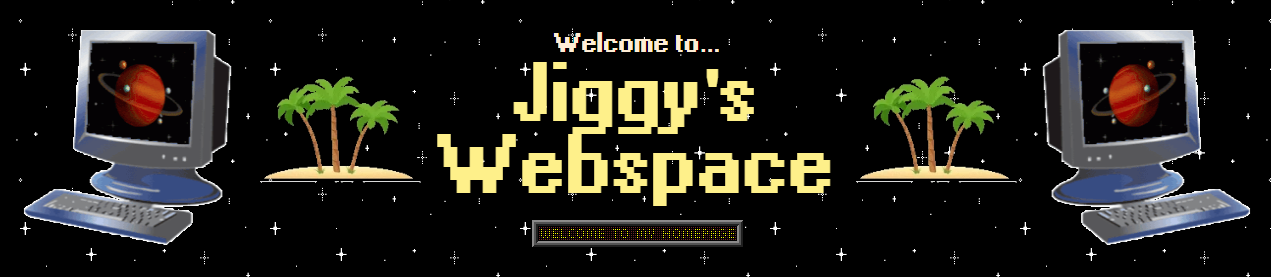
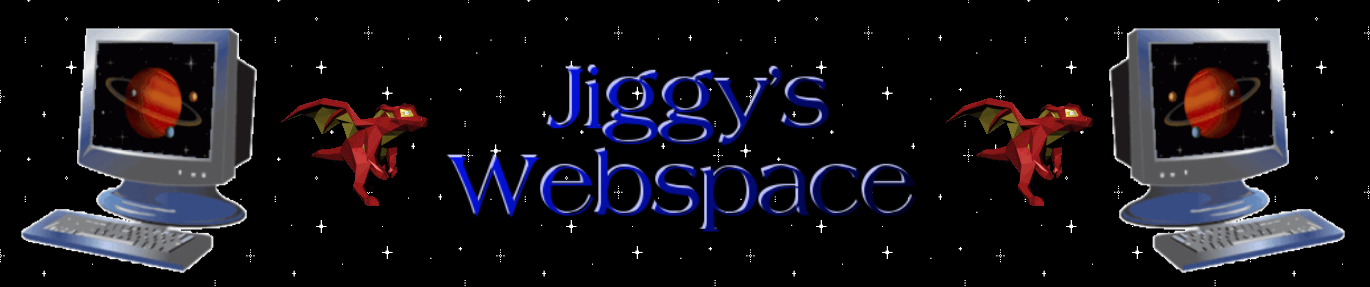
content/style: edit

diff --git a/index.html b/index.html
@@ -17,6 +17,11 @@
           class="w-[250px] h-[250px] md:hidden lg:h-[160px] lg:w-[160px]"
           aria-hidden="true"
         />
+        <img
+          src="/src/assets/images/common/dragon.gif"
+          class="2xl:hidden"
+          aria-hidden="true"
+        />
         <h1>
           <img
             src="/src/assets/images/common/header.png"
@@ -26,6 +31,11 @@
           />
         </h1>
         <img
+          src="/src/assets/images/common/dragon.gif"
+          class="2xl:hidden"
+          aria-hidden="true"
+        />
+        <img
           src="/src/assets/images/common/planets-right.gif"
           class="w-[250px] h-[250px] md:hidden lg:h-[160px] lg:w-[160px]"
           aria-hidden="true"
@@ -33,7 +43,7 @@
       </div>
       <div class="flex flex-col items-center text-center">
         <p class="text-3xl text-blue-100 font-bold">
-          Hello world, Welcome to my webpage!
+          Hello world, Welcome to my website!
         </p>
         <div class="flex items-center justify-center">
           <!-- <img
@@ -67,7 +77,7 @@
           aria-label="Site"
         >
           <div
-            class="text-center font-times flex gap-2 items-center justify-center border border-gray-700 bg-blue-900 w-full"
+            class="text-center font-times flex gap-2 items-center justify-center border border-neutral-700 bg-blue-900 w-full"
           >
             <h2 class="text-2xl font-bold">&#9733; Pages &#9733;</h2>
           </div>
@@ -147,7 +157,7 @@
             </a>
           </div>
           <div
-            class="text-center font-times flex gap-2 items-center justify-center border border-gray-700 bg-blue-900 w-full"
+            class="text-center font-times flex gap-2 items-center justify-center border border-neutral-700 bg-blue-900 w-full"
           >
             <h2 class="text-2xl font-bold">&#9733; Cool Stuff &#9733;</h2>
           </div>
@@ -241,7 +251,7 @@
           aria-label="Page"
         >
           <div
-            class="flex gap-1 m-[2px] border-gray-700 border w-full px-8 items-center justify-center flex-wrap"
+            class="flex gap-1 m-[2px] border-neutral-700 border w-full px-8 items-center justify-center flex-wrap"
           >
             <a href="#welcome">Welcome</a>| <a href="#music">music</a>|
             <a href="#interests">Interests</a>|
@@ -680,7 +690,7 @@
           aria-labelledby="webrings-heading"
         >
           <div
-            class="w-full flex items-center justify-center border border-gray-500 bg-blue-900"
+            class="w-full flex items-center justify-center border border-neutral-500 bg-blue-900"
           >
             <h2 class="text-2xl font-bold max-w-fit" id="webrings-heading">
               &#9733; Webrings &#9733;
@@ -689,7 +699,7 @@
           <ul>
             <li>
               <div
-                class="flex justify-center items-center border border-gray-500 bg-marble p-1"
+                class="flex justify-center items-center border border-neutral-500 bg-marble p-1"
               >
                 <a
                   href="https://webring.dinhe.net/prev/nicoll-douglas.github.io"
@@ -722,7 +732,7 @@
         >
           <div class="overflow-y-auto max-h-full">
             <div
-              class="flex items-center justify-center m-[2px] border-gray-700 border bg-blue-900"
+              class="flex items-center justify-center m-[2px] border-neutral-700 border bg-blue-900"
             >
               <h2 class="text-yellow-100 text-xl" id="site-updates">
                 &#9733; Site & Life Updates &#9733;
@@ -833,7 +843,7 @@
         </section>
         <section
           aria-label="Embed my button"
-          class="flex font-times flex-col gap-5 p-4 text-lg max-w-96 items-center text-center mt-32 lg:mt-0 mb-4"
+          class="flex font-times flex-col gap-5 p-4 text-lg max-w-96 items-center text-center lg:mt-0 mb-4"
         >
           <p class="text-white">
             Feel free to embed my 88x31 button into your page if you wish!:
@@ -848,6 +858,62 @@
           >
 &lt;a href="https://nicoll-douglas.github.io"&gt;&lt;img src="https://raw.githubusercontent.com/nicoll-douglas/nicoll-douglas.github.io/main/src/assets/images/jiggys-webspace-btn.jpg" /&gt;&lt;/a&gt;</textarea
           >
+        </section>
+        <section
+          class="text-white text-lg flex items-center justify-center flex-col text-center window-alt p-[2px] gap-[2px]"
+          aria-labelledby="web-missions"
+        >
+          <h2
+            class="text-xl font-bold text-black font-mono border border-neutral-500 p-1 w-full bg-green-300"
+            id="web-missions"
+          >
+            Jiggy&apos;s Web Missions
+          </h2>
+          <div class="border border-neutral-500 w-full">
+            <h3 class="font-bold text-blue-400">Current Mission:</h3>
+            <p>Continue learning Java</p>
+          </div>
+          <div class="border border-neutral-500 w-full">
+            <h3 class="font-bold text-blue-400">Upcoming:</h3>
+            <ul class="list-disc max-w-fit mx-auto list-inside p-1">
+              <li>
+                Learn some
+                <a href="https://nextjs.org/">NextJS</a> & some
+                <a href="https://www.typescriptlang.org/">Typescript</a>!
+              </li>
+              <li>Think of and start a new project!</li>
+              <li>
+                Polish up my
+                <a
+                  href="https://portfolio-website-weld-nu.vercel.app/"
+                  target="_blank"
+                  >portfolio</a
+                >!
+              </li>
+            </ul>
+          </div>
+          <div class="border border-neutral-500 w-full">
+            <div class="flex items-center justify-center bg-red-600">
+              <img
+                src="/src/assets/images/common/skull.webp"
+                height="50"
+                width="50"
+                aria-hidden="true"
+              />
+              <h3 class="font-extrabold text-white" id="danger-zone">
+                DANGER ZONE!
+              </h3>
+              <img
+                src="/src/assets/images/common/skull.webp"
+                height="50"
+                width="50"
+                aria-hidden="true"
+              />
+            </div>
+            <ul class="list-disc max-w-fit mx-auto list-inside p-1">
+              <li class="font-bold">Learn the C programming language</li>
+            </ul>
+          </div>
         </section>
       </div>
     </div>
@@ -955,14 +1021,14 @@
     </section>
     <footer
       id="credits"
-      class="flex flex-col gap-6 items-center pt-8 px-4 bg-clouds mt-40 mb-8"
+      class="flex flex-col gap-6 items-center pt-8 px-4 bg-clouds mt-40"
     >
       <div
         class="flex md:flex-col items-center justify-center mx-16 lg:mx-0 lg:px-0"
       >
         <div class="px-1 flex flex-col items-center justify-center">
           <marquee
-            class="text-2xl text-black py-8 font-bold font-cursive max-w-[600px]"
+            class="text-2xl text-black font-bold font-cursive max-w-[600px]"
             scrollamount="5"
             direction="up"
           >
@@ -999,20 +1065,20 @@
           src="/src/assets/images/common/have-a-great-day.gif"
         />
       </div>
-      <div
-        class="flex items-center justify-center flex-wrap mt-12 md:hidden"
-        aria-hidden="true"
+      <img src="/src/assets/images/common/ad-geo.gif" aria-hidden="true" />
+      <!-- <div
+      class="flex items-center justify-center flex-wrap mt-12 md:hidden"
+      aria-hidden="true"
       >
-        <img aria-hidden="true" src="/src/assets/images/common/ad.gif" />
+      <img aria-hidden="true" src="/src/assets/images/common/ad.gif" />
         <img src="/src/assets/images/common/ad-netflix.gif" />
         <img src="/src/assets/images/common/ad-aweb.gif" />
         <img src="/src/assets/images/common/ad-trop.gif" />
-        <img src="/src/assets/images/common/ad-geo.gif" />
         <img src="/src/assets/images/common/ad-puffle.gif" />
         <img src="/src/assets/images/common/ad-merlin.gif" />
         <img src="/src/assets/images/common/ad-sims.gif" />
         <img src="/src/assets/images/common/ad-cola.jpg" />
-      </div>
+      </div> -->
       <button class="print"></button>
       <div
         class="hot-links"

diff --git a/favourite-places.html b/favourite-places.html
@@ -54,7 +54,7 @@
             aria-labelledby="brazil-heading"
           >
             <div
-              class="flex items-center justify-center border border-gray-500 w-full"
+              class="flex items-center justify-center border border-neutral-500 w-full"
             >
               <img
                 src="/src/assets/images/common/brazil.gif"
@@ -71,7 +71,7 @@
               />
             </div>
             <div
-              class="flex flex-col items-center justify-start border border-gray-500 p-2"
+              class="flex flex-col items-center justify-start border border-neutral-500 p-2"
             >
               <div
                 class="w-full lg:max-w-[768px] lg:h-fit h-[390px] max-h-[390px] lg:max-h-fit flex items-center justify-center"
@@ -109,7 +109,7 @@
             aria-labelledby="vienna-heading"
           >
             <div
-              class="flex items-center justify-center border border-gray-500 w-full"
+              class="flex items-center justify-center border border-neutral-500 w-full"
             >
               <img
                 src="/src/assets/images/common/austria.gif"
@@ -125,7 +125,9 @@
                 aria-hidden="true"
               />
             </div>
-            <div class="flex items-center flex-col border border-gray-500 p-2">
+            <div
+              class="flex items-center flex-col border border-neutral-500 p-2"
+            >
               <div
                 class="lg:max-w-[768px] w-full flex items-center justify-center h-[460px] lg:h-fit"
               >

diff --git a/links.html b/links.html
@@ -48,7 +48,7 @@
         <ul
           class="flex flex-col items-center max-w-fit mx-auto list-none window-alt p-[2px] gap-[2px]"
         >
-          <li class="border border-gray-500 p-4 flex items-end">
+          <li class="border border-neutral-500 p-4 flex items-end">
             <a
               href="https://portfolio-website-weld-nu.vercel.app/"
               target="_blank"
@@ -63,7 +63,7 @@
               aria-hidden="true"
             />
           </li>
-          <li class="border border-gray-500 flex items-end w-full p-4">
+          <li class="border border-neutral-500 flex items-end w-full p-4">
             <a
               class="text-blue-200 font-bold text-2xl"
               href="https://github.com/nicoll-douglas"

diff --git a/src/css/home.css b/src/css/home.css
@@ -8,11 +8,11 @@ body {
 
 .sidebar-list-item {
   background: url("@/assets/images/backgrounds/bg-marble.png");
-  @apply p-3 flex items-center justify-center border border-gray-700 w-full;
+  @apply p-3 flex items-center justify-center border border-neutral-700 w-full;
 }
 
 .site-update {
-  @apply p-1 m-[2px] border border-gray-700 font-times text-lg leading-5 flex items-center justify-center;
+  @apply p-1 m-[2px] border border-neutral-700 font-times text-lg leading-5 flex items-center justify-center;
 }
 
 .site-update span {

diff --git a/src/js/home/index.js b/src/js/home/index.js
@@ -5,3 +5,9 @@ import "./createButtons";
 import "./createBlinkies";
 import "./songSelectionModal";
 import "./timeSinceY2k";
+
+const dangerZone = document.querySelector("#danger-zone");
+setInterval(() => {
+  dangerZone.classList.toggle("text-white");
+  dangerZone.classList.toggle("text-black");
+}, 750);
